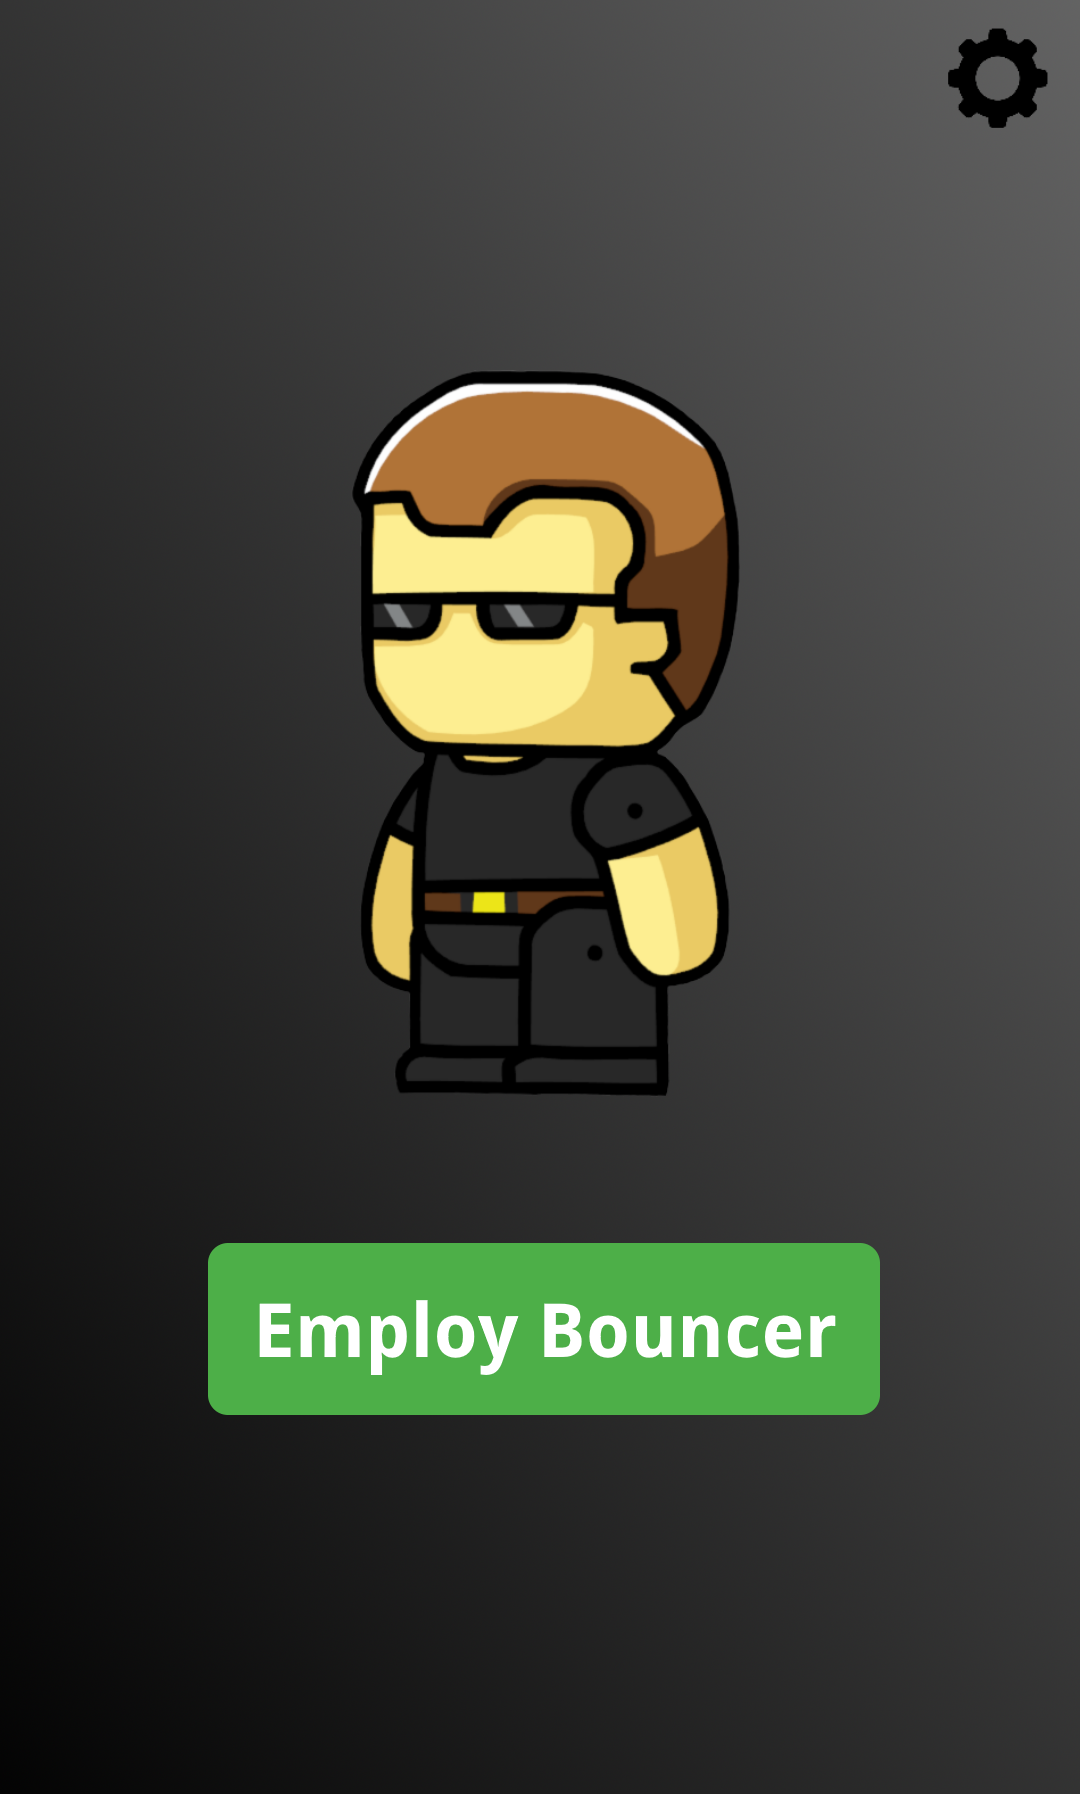
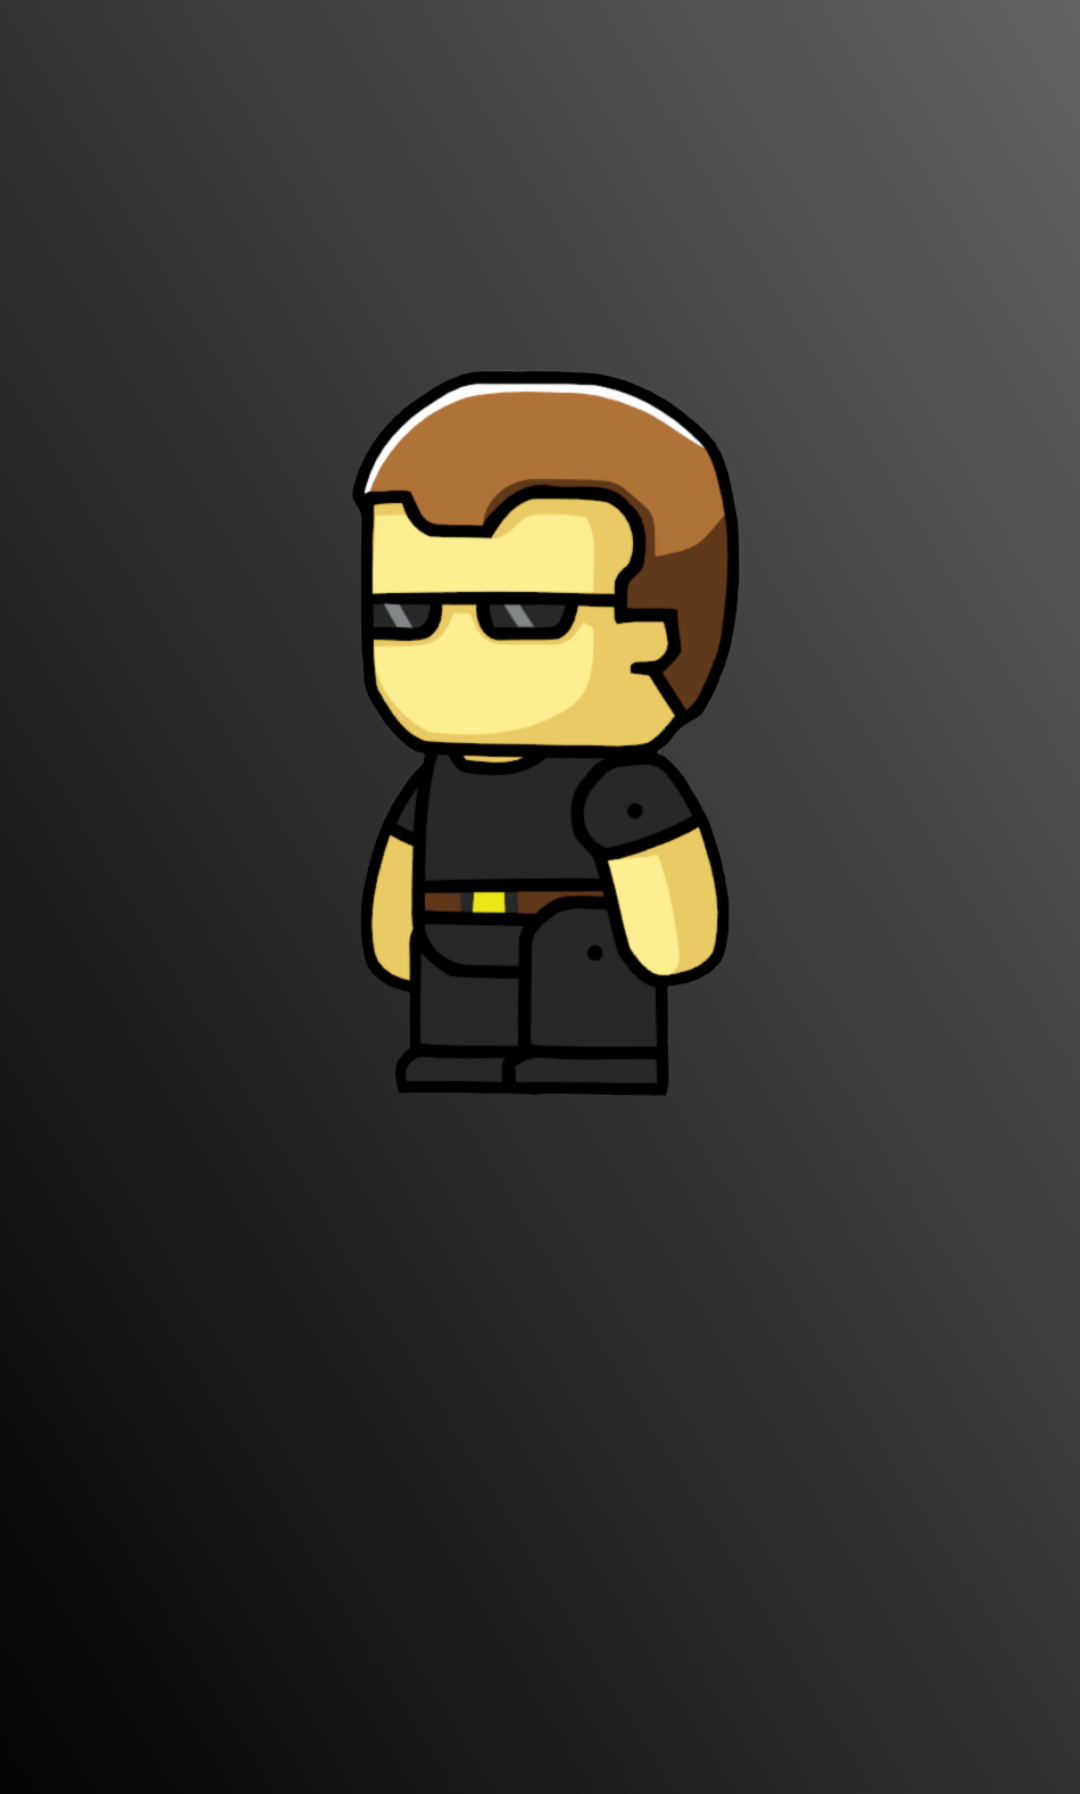
Main button + more persistence
Main button implemented, tracks state of app (bouncer employed or not)

Changed region(s): [[0.1833, 0.6867, 0.825, 0.8116], [0.8861, 0.0, 0.9778, 0.0936]]

diff --git a/www/js/controllers.js b/www/js/controllers.js
@@ -44,10 +44,10 @@ angular.module('starter.controllers', [])
 		$window.localStorage.setItem(4, null);
 	}
 	//For debugging purposes
-	console.log($scope.address.streetAddress);
-	console.log($scope.address.city);
-	console.log($scope.address.state);
-	console.log($scope.address.zipCode);
+//	console.log($scope.address.streetAddress);
+//	console.log($scope.address.city);
+//	console.log($scope.address.state);
+//	console.log($scope.address.zipCode);
 	
 	//Closes popup
 	$scope.closeWindow = function() {
@@ -78,10 +78,10 @@ angular.module('starter.controllers', [])
 			$ionicLoading.show({ template: 'Address not completed. Try again.', noBackdrop: true, duration: 2000 });
 		}
 		//For debugging purposes
-		console.log($scope.address.streetAddress);
-		console.log($scope.address.city);
-		console.log($scope.address.state);
-		console.log($scope.address.zipCode);
+//		console.log($scope.address.streetAddress);
+//		console.log($scope.address.city);
+//		console.log($scope.address.state);
+//		console.log($scope.address.zipCode);
 
 		// Simulate a login delay. Remove this and replace with your login
 		// code if using a login system
@@ -89,4 +89,49 @@ angular.module('starter.controllers', [])
 			$scope.closeWindow();
 		}, 1000);
 	};
+	
+	$scope.clearAddress = function() {
+		$window.localStorage.clear(0);
+		$window.localStorage.clear(1);
+		$window.localStorage.clear(2);
+		$window.localStorage.clear(3);
+		$window.localStorage.clear(4);
+	}
+})
+
+.controller('MainCtrl', function($scope, $ionicModal, $ionicLoading, $timeout, $window) {
+	$scope.employed;
+	if($window.localStorage.getItem("employed") == "true"){
+		$scope.employed = true;
+	} else {
+		$scope.employed = false;
+	}
+	//For debugging purposes
+//	console.log($scope.employed);
+//	console.log($window.localStorage.getItem("employed"));
+	if($scope.employed == false){
+		$scope.buttonText = "Employ Bouncer";
+	} else {
+		$scope.buttonText = "Retire Bouncer";
+	}
+	$scope.employBouncer = function(){
+		if($scope.employed == true){
+			$scope.retireBouncer();
+			$scope.employed = false;
+			$window.localStorage.setItem("employed", $scope.employed);
+			$scope.buttonText = "Employ Bouncer";
+			return;
+		}
+		$scope.employed = true;
+		$window.localStorage.setItem("employed", $scope.employed);
+		$scope.buttonText = "Retire Bouncer";
+		$ionicLoading.show({ template: 'Bouncer employed', noBackdrop: true, duration: 1000 });
+		//For debugging purposes
+//		console.log($scope.employed);
+//		console.log($window.localStorage.getItem("employed"));
+	};
+	
+	$scope.retireBouncer = function(){
+		$ionicLoading.show({ template: 'Bouncer retired', noBackdrop: true, duration: 1000 });
+	}; 
 });

diff --git a/www/templates/defaultHome.html b/www/templates/defaultHome.html
@@ -23,6 +23,9 @@
         <label class="item">
           <button class="button button-block button-positive" type="submit">Save</button>
         </label>
+        <label class="item">
+          <button class="button button-block" type="reset" ng-click="clearAddress()">Clear</button>
+        </label>
       </div>
     </form>
   </ion-content>

diff --git a/www/templates/main.html b/www/templates/main.html
@@ -1,5 +1,6 @@
 <ion-view view-title="Bouncer">
   <ion-content>
     <img width="100%" height="100%" src="img/BouncerMainScreen.png"></img>
+    <button id="employBouncer" class="button button-large button-balanced padding" ng-click="employBouncer()">{{buttonText}}</button>
   </ion-content>
 </ion-view>

diff --git a/www/css/style.css b/www/css/style.css
@@ -1,1 +1,13 @@
-/* Empty. Add your own CSS if you like */
+#employBouncer {
+	font-size: 80px;
+	font-weight: bold;
+	height: 5%;
+	width: 62%;
+	max-width: 100%;
+	padding-top: 50px;
+	padding-bottom: 120px;
+	border-radius: 25px;
+	left: 19.3%;
+	top: 69.5%;
+	position: absolute;
+}

diff --git a/www/js/app.js b/www/js/app.js
@@ -54,6 +54,7 @@ angular.module('bouncer', ['ionic', 'starter.controllers'])
       views: {
         'menuContent': {
           templateUrl: 'templates/main.html',
+          controller: 'MainCtrl'
         }
       }
     });
